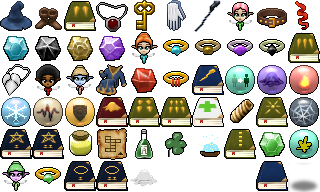
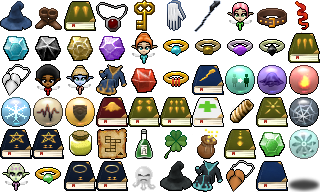
ADD New items
ADD Advanced hat (no effect yet)
ADD Advanced robe (no effect yet)
ADD Mage bart

diff --git a/src/PlayerEntity.cpp b/src/PlayerEntity.cpp
@@ -645,7 +645,26 @@ void PlayerEntity::renderPlayer(sf::RenderTarget* app)
     app->draw(sprite);
   }
 
-  if (equip[EQUIP_MAGICIAN_ROBE])
+  if (equip[EQUIP_ROBE_ADVANCED] && playerStatus != playerStatusDead)
+  {
+    sprite.setTexture(*ImageManager::getInstance().getImage(IMAGE_PLAYER_1));
+    if (isMirroring)
+      sprite.setTextureRect(sf::IntRect( (12 + frame) * width + width, spriteDy * height, -width, height));
+    else
+      sprite.setTextureRect(sf::IntRect( (12 + frame) * width, spriteDy * height, width, height));
+    app->draw(sprite);
+
+    if (isMirroring)
+      sprite.setTextureRect(sf::IntRect( (15 + frame) * width + width, spriteDy * height, -width, height));
+    else
+      sprite.setTextureRect(sf::IntRect( (15 + frame) * width, spriteDy * height, width, height));
+    sprite.setColor(sf::Color(255, 255, 255, 100 + 100 * cosf(game().getAbsolutTime() * 3.5f)));
+    app->draw(sprite, sf::BlendAdd);
+    sprite.setColor(sf::Color(255, 255, 255, 255));
+
+    sprite.setTexture(*ImageManager::getInstance().getImage(IMAGE_PLAYER_0));
+  }
+  else if (equip[EQUIP_MAGICIAN_ROBE])
   {
     if (isMirroring)
       sprite.setTextureRect(sf::IntRect( (12 + frame) * width + width, spriteDy * height, -width, height));
@@ -654,13 +673,24 @@ void PlayerEntity::renderPlayer(sf::RenderTarget* app)
     app->draw(sprite);
   }
 
-  if (equip[EQUIP_BROOCH_FINESSE])
+  if (equip[EQUIP_CRITICAL_ADVANCED])
   {
     if (isMirroring)
       sprite.setTextureRect(sf::IntRect( (24 + frame) * width + width, spriteDy * height, -width, height));
     else
       sprite.setTextureRect(sf::IntRect( (24 + frame) * width, spriteDy * height, width, height));
     app->draw(sprite);
+  }
+  else if (equip[EQUIP_CRITICAL])
+  {
+    sprite.setTexture(*ImageManager::getInstance().getImage(IMAGE_PLAYER_1));
+    if (isMirroring)
+      sprite.setTextureRect(sf::IntRect( (18 + frame) * width + width, spriteDy * height, -width, height));
+    else
+      sprite.setTextureRect(sf::IntRect( (18 + frame) * width, spriteDy * height, width, height));
+    app->draw(sprite);
+
+    sprite.setTexture(*ImageManager::getInstance().getImage(IMAGE_PLAYER_0));
   }
 
   if (equip[EQUIP_RAGE_AMULET])
@@ -766,7 +796,17 @@ void PlayerEntity::renderPlayer(sf::RenderTarget* app)
   }
 
   // hat
-  if (equip[EQUIP_MAGICIAN_HAT] && playerStatus != playerStatusDead)
+  if (equip[EQUIP_HAT_ADVANCED] && playerStatus != playerStatusDead)
+  {
+    sprite.setTexture(*ImageManager::getInstance().getImage(IMAGE_PLAYER_1));
+    if (isMirroring)
+      sprite.setTextureRect(sf::IntRect( (9 + frame) * width + width, spriteDy * height, -width, height));
+    else
+      sprite.setTextureRect(sf::IntRect( (9 + frame) * width, spriteDy * height, width, height));
+    app->draw(sprite);
+    sprite.setTexture(*ImageManager::getInstance().getImage(IMAGE_PLAYER_0));
+  }
+  else if (equip[EQUIP_MAGICIAN_HAT] && playerStatus != playerStatusDead)
   {
     sprite.setTexture(*ImageManager::getInstance().getImage(IMAGE_PLAYER_1));
     if (isMirroring)
@@ -1184,7 +1224,7 @@ void PlayerEntity::generateBolt(float velx, float vely)
   if (criticalChance > 0)
     if (rand()% 100 < criticalChance)
     {
-      boltDamage += boltDamage;
+      boltDamage *= equip[EQUIP_CRITICAL_ADVANCED] ? 3 : 2;
       bolt->setCritical(true);
     }
   bolt->setDamages(boltDamage);
@@ -1580,7 +1620,7 @@ void PlayerEntity::computePlayer()
   if (equip[EQUIP_BOOK_TRIPLE]) fireDelayBonus += 0.7f;
   else if (equip[EQUIP_BOOK_DUAL]) fireDelayBonus += 0.5f;
 
-  if (equip[EQUIP_BROOCH_FINESSE]) criticalChance += 5;
+  if (equip[EQUIP_CRITICAL_ADVANCED]) criticalChance += 5;
   if (equip[EQUIP_MANUAL_STAFF]) boltLifeTimeBonus += 0.4f;
   if (equip[EQUIP_MAHOGANY_STAFF])
   {

diff --git a/src/Items.h b/src/Items.h
@@ -92,7 +92,7 @@ enum enumItemType
   ItemRingLightning,
   ItemRingIllusion,
   ItemBookTripleShots,
-  ItemBroochFinesse,
+  ItemCriticalAdvanced,
   ItemFairyFire,
   ItemFairyIce,
   ItemMagicianRobe,
@@ -127,6 +127,9 @@ enum enumItemType
   ItemBookPrayerI,
   ItemBookPrayerII,
   ItemPetSlime,
+  ItemHatAdvanced,
+  ItemRobeAdvanced,
+  ItemCritical,
 
   NUMBER_ITEMS
 };
@@ -278,8 +281,8 @@ const itemStuct items[NUMBER_ITEMS] =
     50, true, FamiliarNone, true, true, true, 4, RarityCommon, false, ItemBookDualShots, ShotTypeStandard, SpellNone
   },
   {
-    ItemBroochFinesse, "item_brooch_finesse", "item_brooch_finesse_desc",
-    20, true, FamiliarNone, true, true, true, 1, RarityCommon, false, -1, ShotTypeStandard, SpellNone
+    ItemCriticalAdvanced, "item_critical_advanced", "item_critical_advanced_desc",
+    35, true, FamiliarNone, true, true, true, 1, RarityCommon, false, ItemCritical, ShotTypeStandard, SpellNone
   },
   {
     ItemFairyFire, "item_fairy_fire", "item_fairy_fire_desc",
@@ -417,6 +420,18 @@ const itemStuct items[NUMBER_ITEMS] =
     ItemPetSlime, "item_pet_slime", "item_pet_slime_desc",
     50, true, FamiliarNone, true, true, true, 1, RarityRare, false, -1, ShotTypeStandard, SpellNone
   },
+  {
+    ItemHatAdvanced, "item_hat_advanced", "item_hat_advanced_desc",
+    35, true, FamiliarNone, true, true, true, 2, RarityCommon, false, ItemMagicianHat, ShotTypeStandard, SpellNone
+  },
+  {
+    ItemRobeAdvanced, "item_robe_advanced", "item_robe_advanced_desc",
+    40, true, FamiliarNone, true, true, true, 3, RarityCommon, false, ItemMagicianRobe, ShotTypeStandard, SpellNone
+  },
+  {
+    ItemCritical, "item_critical", "item_critical_desc",
+    20, true, FamiliarNone, true, true, true, 1, RarityCommon, false, -1, ShotTypeStandard, SpellNone
+  },
 };
 
 /** Item equipment type enum
@@ -443,7 +458,7 @@ enum item_equip_enum {
   EQUIP_RING_LIGHTNING,
   EQUIP_RING_ILLUSION,
   EQUIP_BOOK_TRIPLE,
-  EQUIP_BROOCH_FINESSE,
+  EQUIP_CRITICAL_ADVANCED,
   EQUIP_FAIRY_FIRE,
   EQUIP_FAIRY_TARGET,
   EQUIP_MAGICIAN_ROBE,
@@ -478,6 +493,9 @@ enum item_equip_enum {
   EQUIP_BOOK_PRAYER_I,
   EQUIP_BOOK_PRAYER_II,
   EQUIP_PET_SLIME,
+  EQUIP_HAT_ADVANCED,
+  EQUIP_ROBE_ADVANCED,
+  EQUIP_CRITICAL,
 
   NUMBER_EQUIP_ITEMS
   };
@@ -486,12 +504,15 @@ const std::vector<item_equip_enum> sortedEquipement =
 {
   // clothes
   EQUIP_MAGICIAN_ROBE,
+  EQUIP_ROBE_ADVANCED,
   EQUIP_MAGICIAN_HAT,
+  EQUIP_HAT_ADVANCED,
   EQUIP_LEATHER_BOOTS,
   EQUIP_DISPLACEMENT_GLOVES,
   EQUIP_LEATHER_BELT,
   EQUIP_RAGE_AMULET,
-  EQUIP_BROOCH_FINESSE,
+  EQUIP_CRITICAL,
+  EQUIP_CRITICAL_ADVANCED,
   EQUIP_RING_ICE,
   EQUIP_RING_STONE,
   EQUIP_RING_LIGHTNING,
